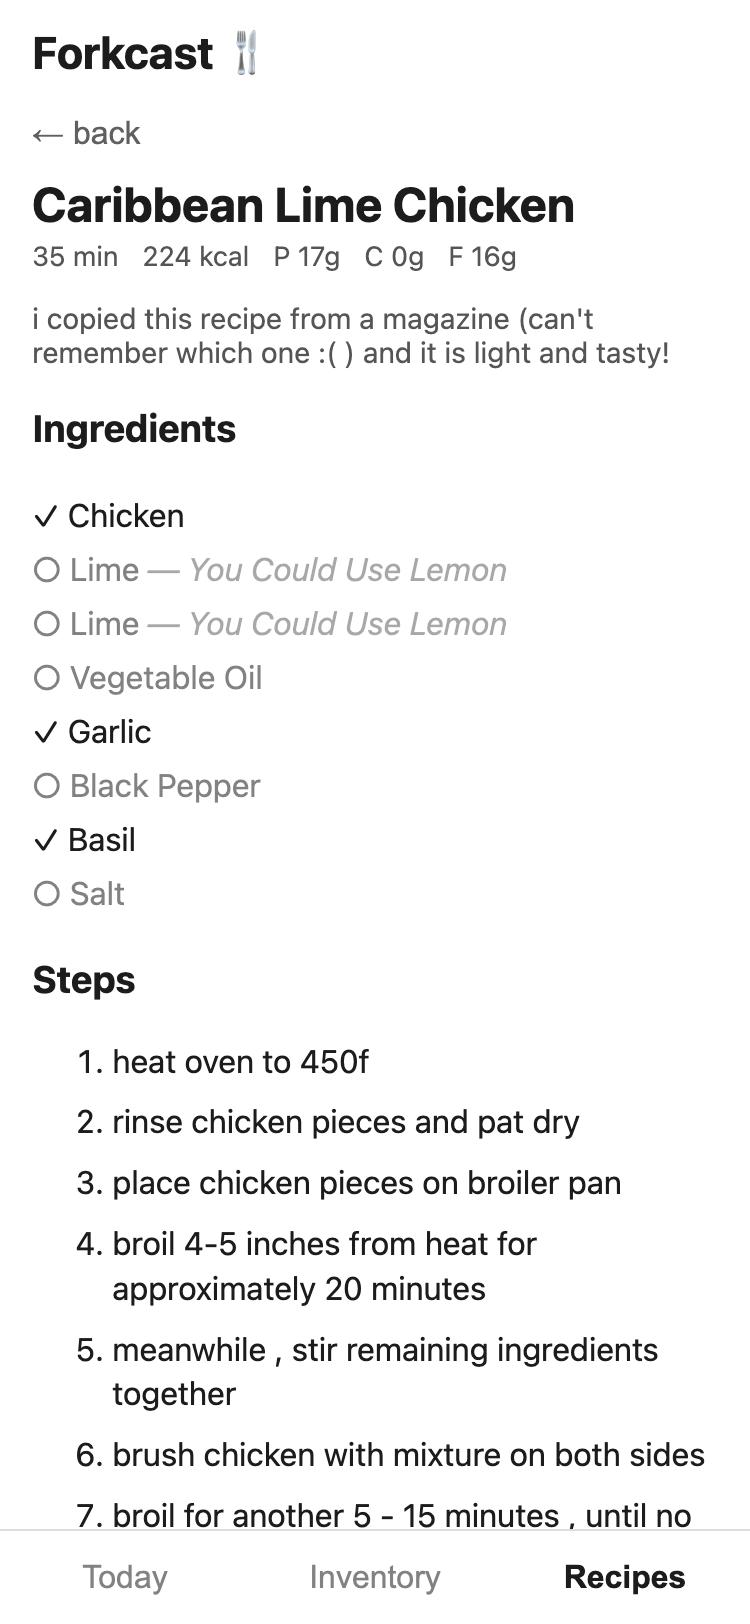
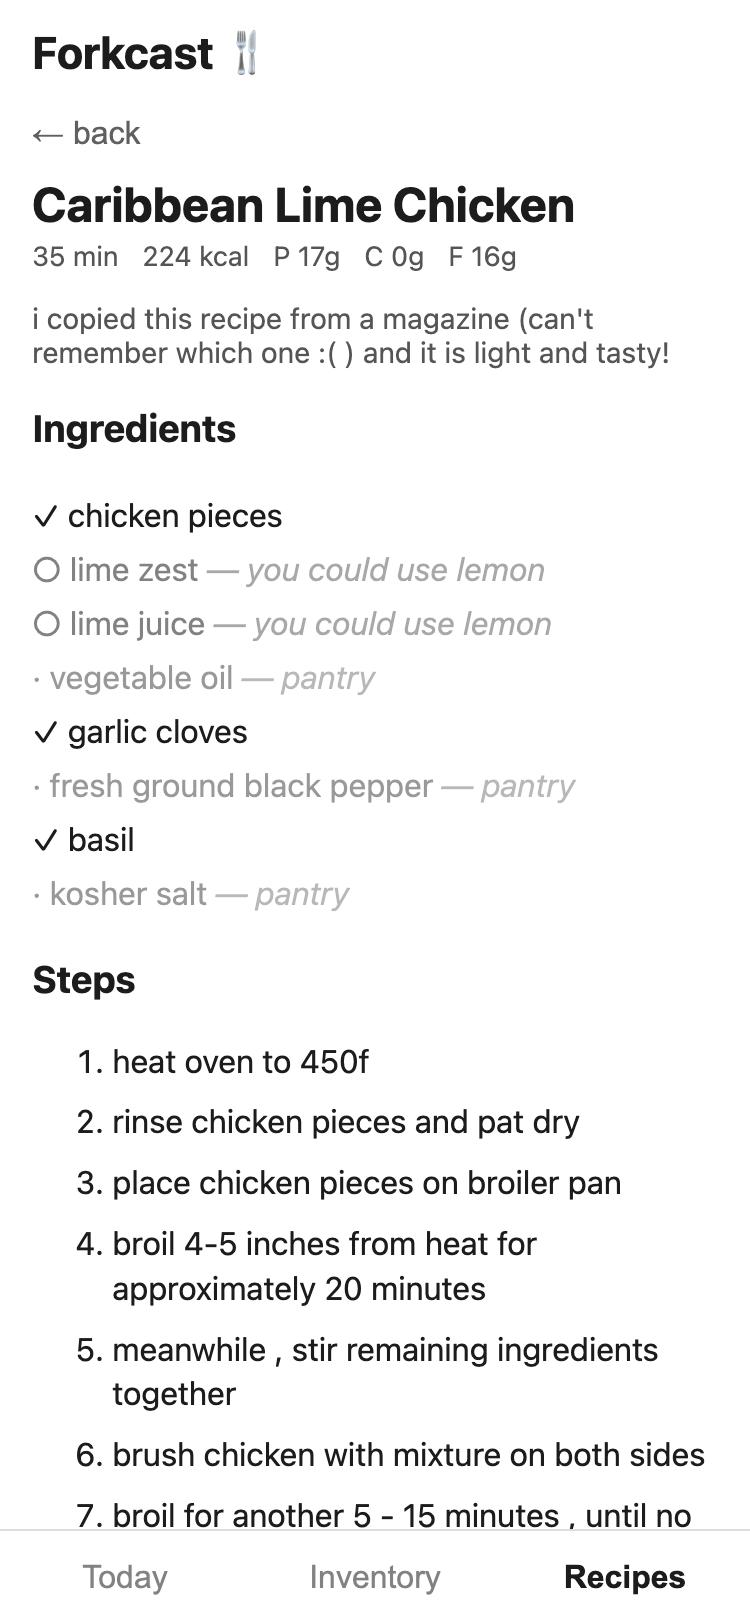
Retake screenshots on the re-normalized corpus
The recipe detail now shows the fixed view: the recipe's own wording
(lime zest, lime juice) and staples as pantry rows. The feed and the
"Worth buying" basket come from corpus-20261114: cherry tomatoes now
count as tomato, so Cherry Tomato Pasta tops the feed, and the basket
is yeast 199, onion +137, bread +144 (480, was 578). Same demo kitchen
and profile as before.

diff --git a/README.md b/README.md
@@ -13,8 +13,8 @@ logic are built here.
 
 | Today | Recipe feed | Recipe detail | Worth buying |
 |---|---|---|---|
-| <img src="docs/screenshots/today.jpg" width="200" alt="Today: calorie and macro progress against targets, with today's logged meals and their ratings"> | <img src="docs/screenshots/recipes.jpg" width="200" alt="Recipe feed: cookable recipes with taste match, a fits-macros badge and a protein-to-go hint"> | <img src="docs/screenshots/recipe.jpg" width="200" alt="Recipe detail: ingredients ticked against the inventory, with lemon suggested for the missing lime"> | <img src="docs/screenshots/shopping.jpg" width="200" alt="Worth buying: yeast unlocks 267 recipes, then onion 150 more, then baking powder 161 more"> |
-| Macros against Mifflin-St Jeor targets | Ranked by taste and by what fits today's remaining macros | Ingredients you have are ticked; lemon stands in for lime | Three purchases that unlock 578 more recipes |
+| <img src="docs/screenshots/today.jpg" width="200" alt="Today: calorie and macro progress against targets, with today's logged meals and their ratings"> | <img src="docs/screenshots/recipes.jpg" width="200" alt="Recipe feed: cookable recipes with taste match, a fits-macros badge and a protein-to-go hint"> | <img src="docs/screenshots/recipe.jpg" width="200" alt="Recipe detail: the recipe's own ingredient wording, ticked against the inventory, lemon suggested for the missing lime, staples shown as pantry"> | <img src="docs/screenshots/shopping.jpg" width="200" alt="Worth buying: yeast unlocks 199 recipes, then onion 137 more, then bread 144 more"> |
+| Macros against Mifflin-St Jeor targets | Ranked by taste and by what fits today's remaining macros | Ingredients you have are ticked; lemon stands in for lime | Three purchases that unlock 480 more recipes |
 
 > **The UI is a working first version, not a finished design.** It shows the
 > engine behind it (ranking, substitutions, macro steering), and a visual polish
